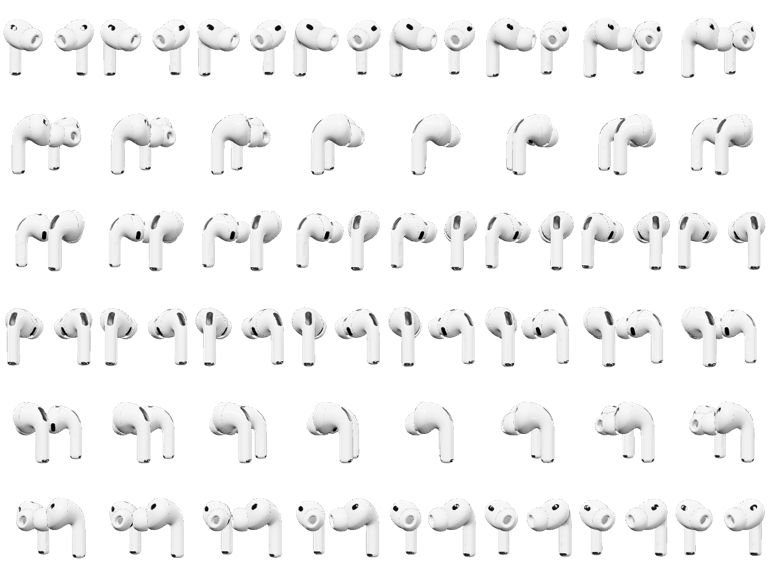
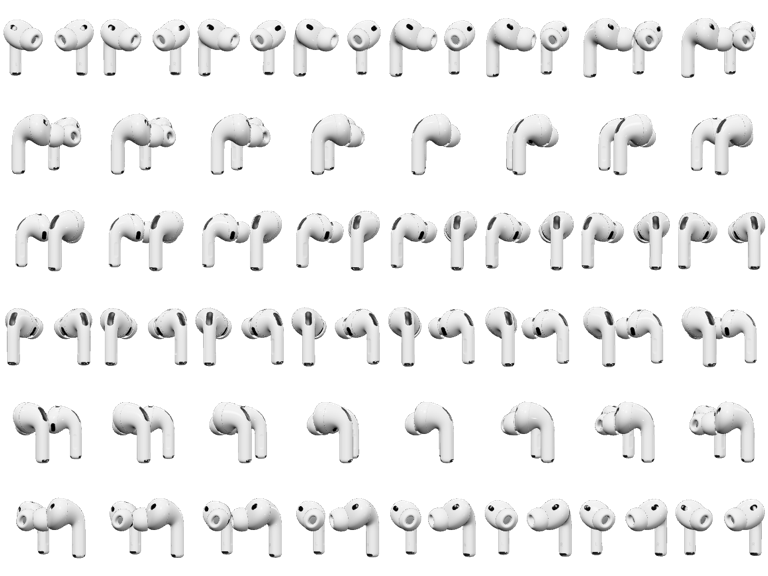
Softer light on the headphones, and a faint glow behind them
Both turns re-rendered in a softer light: more of the room and less of the
lamps — key 0.9 instead of 2.4, rims 0.7 instead of 1.6, exposure 1.0
instead of 1.25 — so the shading is quieter and the highlights no longer
burn out. The XM5 keeps enough rim to read as black on black.

Behind the turning device the wing now draws a very soft light-grey radial
glow, 13% at the centre to nothing at the edge, like a product shot against a
lit backdrop. Drawn by SwiftUI rather than baked into the frames, so it
stays smooth and is one number to change.

diff --git a/Sources/Cue/Shelf/NowPlaying/ArrivalWings.swift b/Sources/Cue/Shelf/NowPlaying/ArrivalWings.swift
@@ -163,6 +163,19 @@ struct DeviceTurn: View {
                     .interpolation(.high)
                     .frame(width: size, height: size)
             }
+            // A soft light-grey glow behind the device, the way a product is
+            // shot against a lit backdrop: just enough to lift a black pair of
+            // headphones off the black notch, never enough to read as a disc.
+            .background {
+                RadialGradient(
+                    colors: [Color(white: 0.85).opacity(0.13), Color(white: 0.85).opacity(0)],
+                    center: .center,
+                    startRadius: 0,
+                    endRadius: size * 0.55
+                )
+                .frame(width: size * 1.1, height: size * 1.1)
+                .allowsHitTesting(false)
+            }
             .accessibilityHidden(true)
         }
     }
